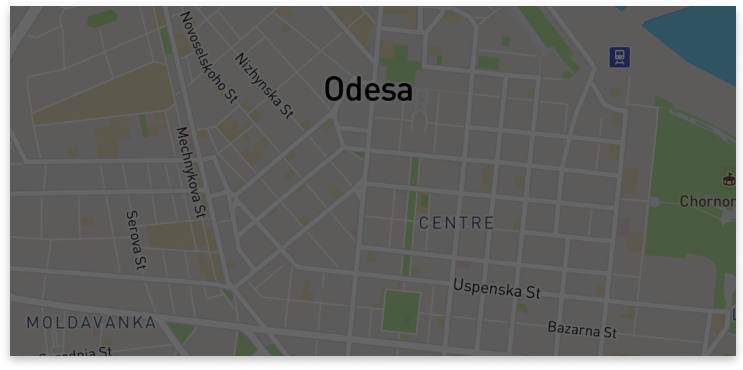
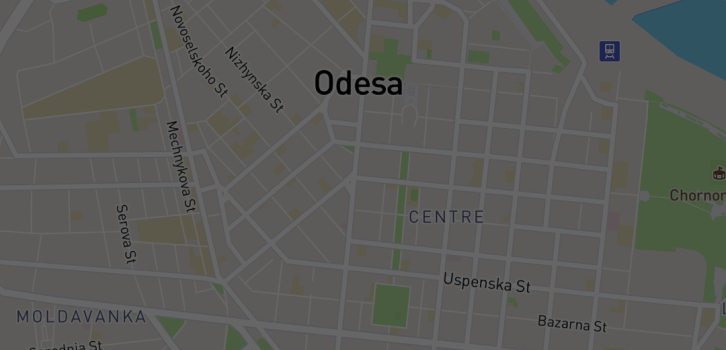
scafold map

diff --git a/src/components/StaticMap/index.js b/src/components/StaticMap/index.js
@@ -1,20 +1,21 @@
-import MapSrc from "../../assets/img/odessa-map.png";
 import {SvgIcon} from "../svg/SvgIcon";
 import {MapPinSvg} from "../svg/MapPinSvg";
+import {SvgButton} from "../SvgButton";
+import {OdessaMap} from "../OdessaMap";
 
 export const StaticMap = () => {
     return (
         <div>
-            <img src={MapSrc} alt="map"/>
-        <div style={{
-            backgroundColor:"#FFE600",
-            boxShadow: "0 0 15px rgba(255, 230, 0, 0.5)",
-            borderRadius: "5px"
-        }}>
-            <SvgIcon color={"white"}>
-                <MapPinSvg/>
-            </SvgIcon>
-        </div>
+            <OdessaMap width={"350px"} height={"187px"} topLeft={"10px"} topRight={"10px"}>
+                <SvgButton>
+                    <SvgIcon color={"black"}>
+                        <MapPinSvg/>
+                    </SvgIcon>
+                </SvgButton>
+            </OdessaMap>
+
+
+
 
 
         </div>

diff --git a/src/components/OdessaMap/index.js b/src/components/OdessaMap/index.js
@@ -1,0 +1,32 @@
+import * as S from "./styled";
+
+export const OdessaMap = (
+    {
+        children,
+        width,
+        height,
+        topLeft="0",
+        topRight="0",
+        bottomRight="0",
+        bottomLeft="0",
+        style
+    }) => {
+    return (
+        <S.Background style={
+            {
+                width,
+                height,
+                borderTopRightRadius: topRight,
+                borderTopLeftRadius: topLeft,
+                borderBottomLeftRadius: bottomLeft,
+                borderBottomRightRadius: bottomRight,
+                ...style
+
+            }
+        }>
+
+            {children}
+        </S.Background>
+
+    )
+}

diff --git a/src/components/OdessaMap/styled.js b/src/components/OdessaMap/styled.js
@@ -1,0 +1,16 @@
+import styled from "styled-components";
+import OdessaMapSrc from "../../assets/img/odessa-map.png";
+
+const Background = styled.div`
+    background-image: url(${OdessaMapSrc});
+    display: flex;
+    justify-content: center;
+    align-items: center;
+    background-position: center;
+    overflow: hidden;
+    
+`;
+
+export {
+    Background
+}

diff --git a/src/components/SvgButton/styled.js b/src/components/SvgButton/styled.js
@@ -1,0 +1,16 @@
+import styled from "styled-components";
+
+const Box = styled.div`
+  background-color: #FFE600;
+  box-shadow: 0 0 15px rgba(255, 230, 0, 0.5);
+  border-radius: 5px;
+  width: 40px;
+  height: 40px;
+  display: flex;
+  align-items: center;
+  justify-content: center;
+`;
+
+export {
+    Box
+}

diff --git a/src/components/SvgButton/index.js b/src/components/SvgButton/index.js
@@ -1,0 +1,10 @@
+import * as S from "./styled";
+
+export const SvgButton = ({children}) => {
+    return (
+        <S.Box>
+
+            {children}
+        </S.Box>
+    )
+}

diff --git a/src/components/svg/SvgIcon/styled.js b/src/components/svg/SvgIcon/styled.js
@@ -2,7 +2,7 @@ import styled from "styled-components";
 
 
 const Parent = styled.span`
-  display: inline-block;
+  display: flex;
   svg{
     height: auto;
     width: 100%;
